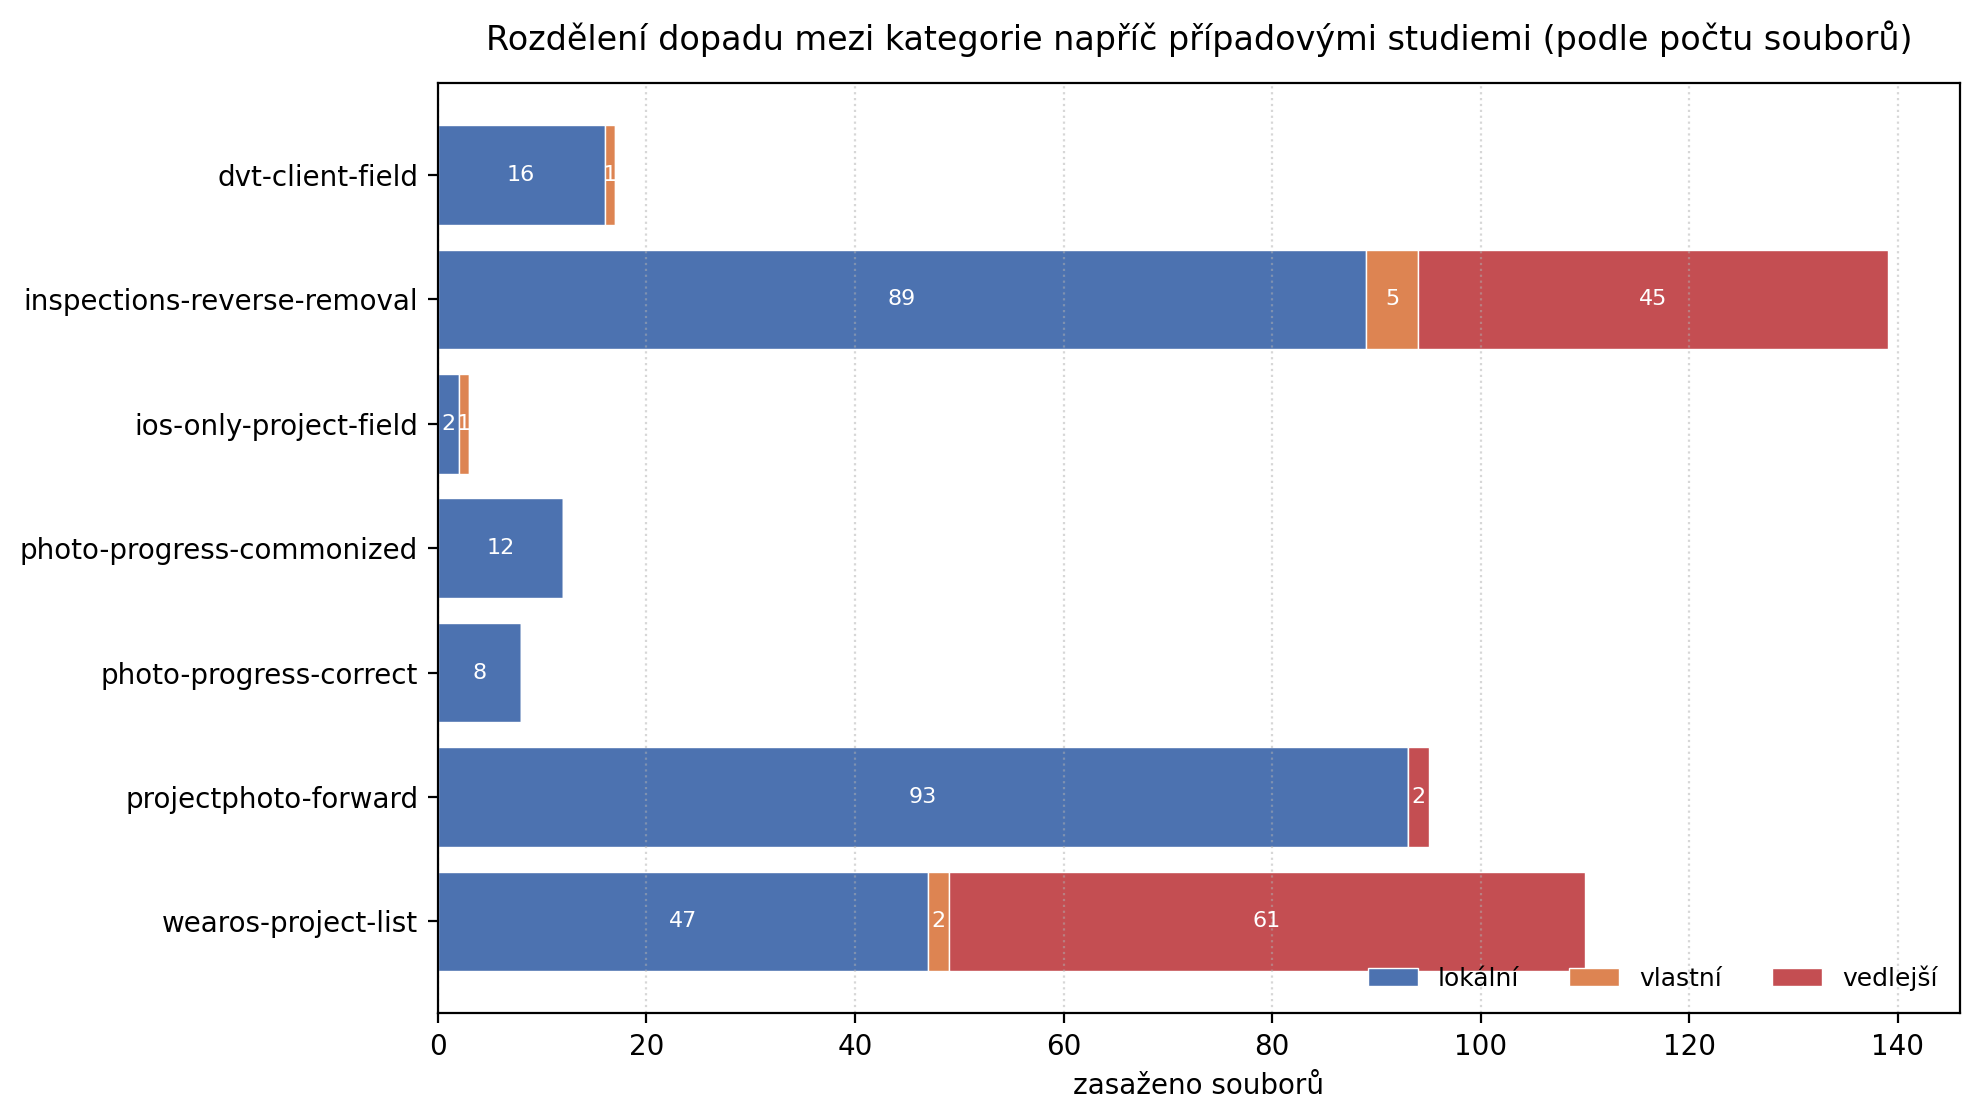
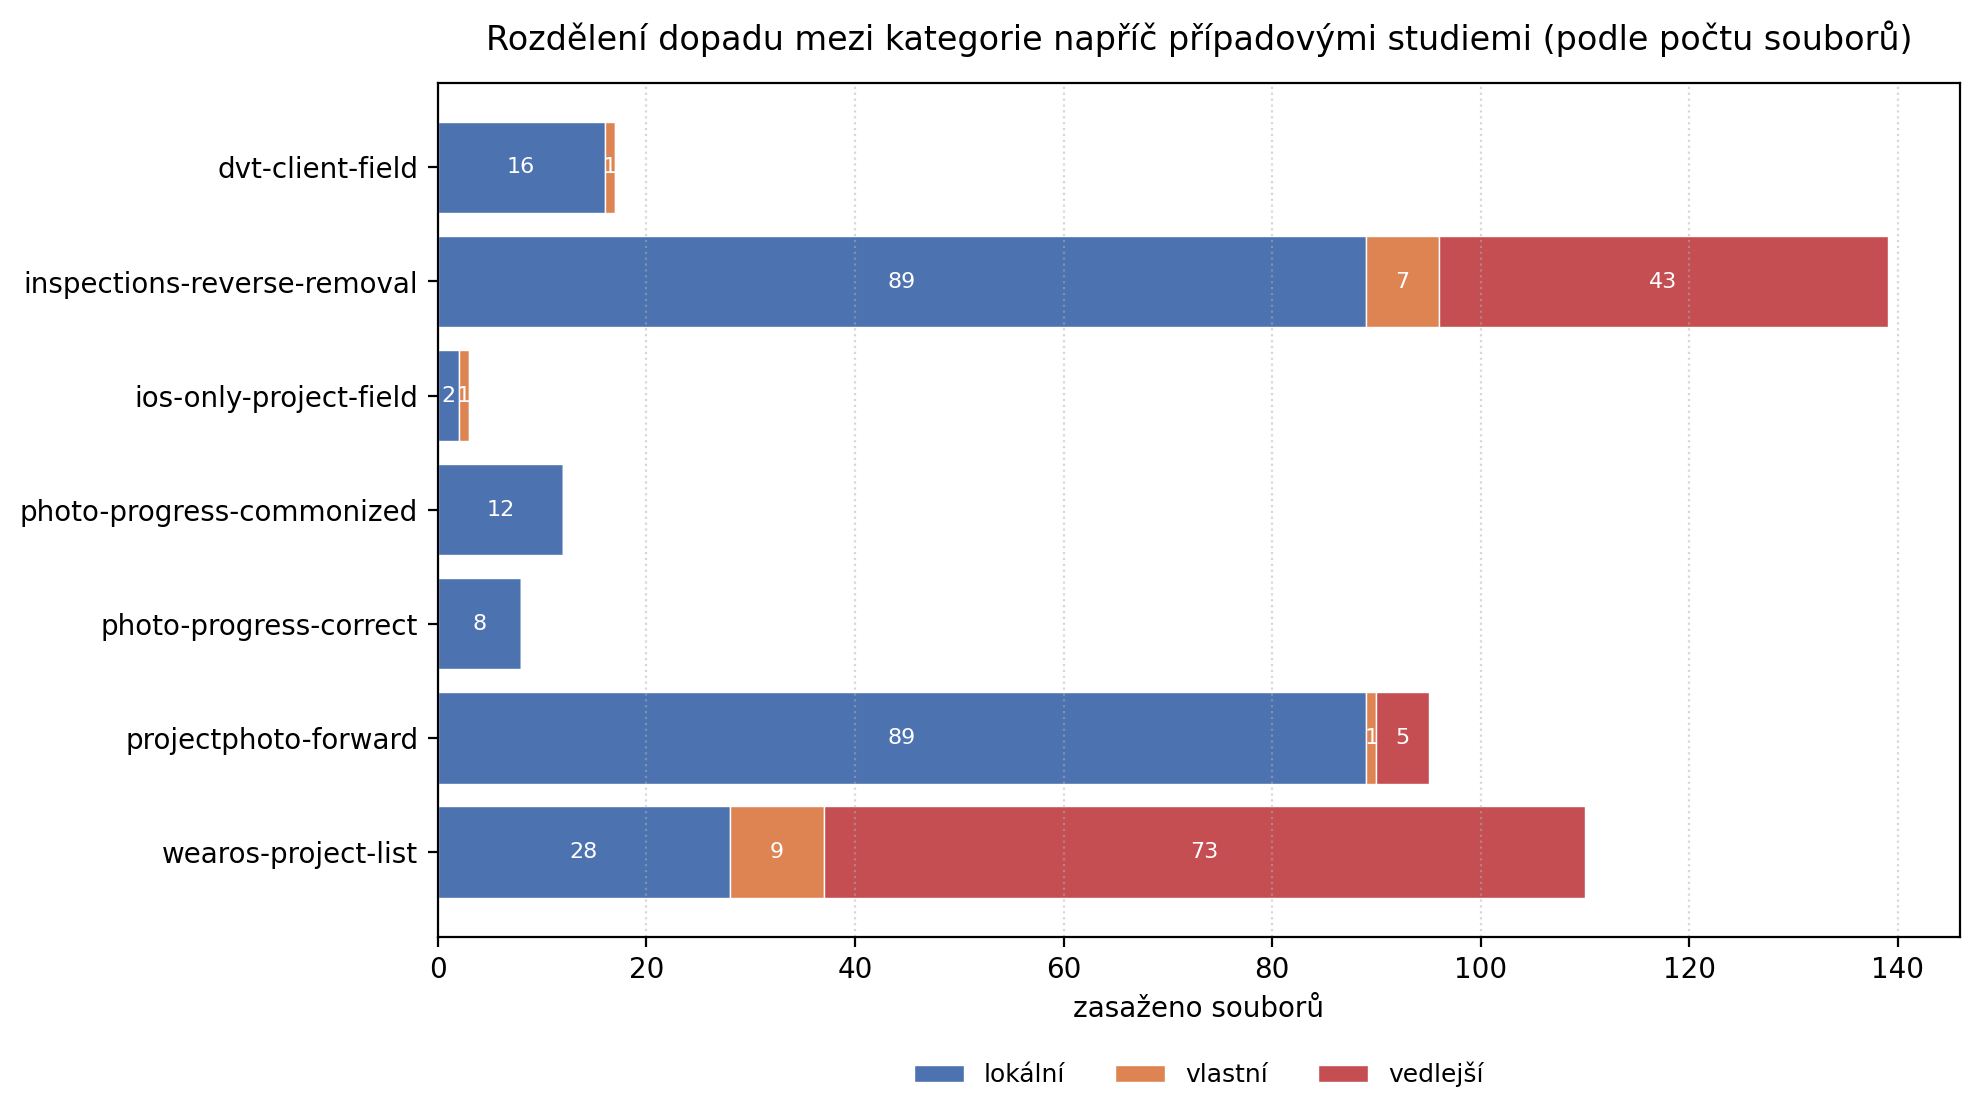
analysis: per-file aggregation for fig_4_3 (#260)
* analysis: switch fig_4_3 ripple buckets to per-file aggregation

The §4.3 stacked bars previously read `ripple_<change>_units.csv` and credited
each unit's full file_count / loc_churn_sum to its dominant_bucket. Mixed
units (a Gradle module touching multiple buckets) were rounded to a single
segment, which contradicted the per-file methodology declared in
§eval-metodologie and the per-file numbers cited in
`tab:eval-ev-{inspections,wearos}-buckets`, the fig_4_3 caption, and the
ProjectPhoto / Wear OS prose.

Switch the source to `ripple_<change>_files.csv` and aggregate each file's
own `bucket` and `loc_churn`. No prose or table edits required — every
text site already cited per-file values; only the figure was off.

Wear OS now renders 28/9/73 (was 47/2/61). Inspections 89/7/43 (was
89/5/45). ProjectPhoto 89/1/5 (was 93/0/2). LOC variants align with the
buckets tables.

* analysis: move fig_4_3 legend below axes

Inside-axes legend at lower right overlapped the wearos-project-list bar
once the per-file split surfaced the larger intrinsic+collateral mass
(28/9/73 across a 110-file total). Anchor the legend below the x-axis
label so segments are never obscured.

---------

Pull request: analysis: per-file aggregation for fig_4_3
## Problem Statement

`fig_4_3_ripple_buckets_files.pdf` (and its LOC variant `..._churn.pdf`) aggregated each Gradle unit's full `file_count` / `loc_churn_sum` to its `dominant_bucket`. Mixed units — a single module touching multiple buckets — collapsed to one segment, contradicting:

- `text/eval-metodologie.tex` ř. 56–64 — methodology declares **per-file** classification.
- `tab:eval-ev-inspections-buckets` (89/7/43, 5281/99/691) and `tab:eval-ev-wearos-buckets` (28/9/73, 1283/154/629) — per-file numbers.
- Caption fig_4_3: „Sedm opakujících se vlastních míst u Inspekcí, devět u Wear OS a jedno u ProjectPhoto" — per-file.
- ProjectPhoto prose: „95 souborů v rozložení 89 lokálních, 1 vlastního a 5 vedlejších" — per-file.

Wear OS rendered as 47/2/61 instead of 28/9/73 (the unit `:root::non-module` with `dominant_bucket=local` and 47 files actually contained 28 local + 12 collateral + 7 intrinsic per-file). Inspections rendered 89/5/45 instead of 89/7/43.

## Solution

`figure_ripple_buckets()` in `analysis/figures.py` now reads `ripple_<change>_files.csv` and aggregates each row's own `bucket` (+1 file) and `loc_churn` (LOC variant). One file = one segment contribution. Mixed units split correctly across local / intrinsic / collateral.

No prose or `.tex` edits — every text site already cited per-file values. Only the figure was off.

## Test Coverage

### Unit Tests
- `analysis/tests/` (81 tests) all pass.
[…]

diff --git a/analysis/figures.py b/analysis/figures.py
@@ -716,33 +716,34 @@ def figure_ripple_buckets() -> None:
     each can be embedded at full width in the thesis without compressing the
     bar labels.
 
-    Consumes every `analysis/data/ripple_<change>_units.csv` produced by
-    feature_retro.py --finalize. Recurring intrinsic unit count annotated per bar.
+    Consumes every `analysis/data/ripple_<change>_files.csv` produced by
+    feature_retro.py --finalize. Aggregates per-file `bucket` so mixed units
+    (a single Gradle module touching multiple buckets) split correctly across
+    segments — matches the per-file methodology in §metodologie and the
+    per-file numbers cited in §evaluation tables and prose.
 
     Skips gracefully when no ripple CSVs exist yet — Phase 2 writeup runs before
     any case study data is committed, so the smoke pass must not fail here.
     """
-    ripple_csvs = sorted(DATA_DIR.glob("ripple_*_units.csv"))
+    ripple_csvs = sorted(DATA_DIR.glob("ripple_*_files.csv"))
     if not ripple_csvs:
-        print("figure_ripple_buckets: no ripple_*_units.csv found — skipping")
+        print("figure_ripple_buckets: no ripple_*_files.csv found — skipping")
         return
 
     per_change_rows = []
     for csv_path in ripple_csvs:
-        change_id = csv_path.stem.removeprefix("ripple_").removesuffix("_units")
+        change_id = csv_path.stem.removeprefix("ripple_").removesuffix("_files")
         df = pd.read_csv(csv_path, dtype=str).fillna("")
-        df["file_count"] = df["file_count"].astype(int)
-        df["loc_churn_sum"] = df["loc_churn_sum"].astype(int)
-        df["recurring_bool"] = df["recurring"].str.lower().isin({"true", "1"})
+        df["loc_churn"] = df["loc_churn"].astype(int)
 
         bucket_files = {b: 0 for b in RIPPLE_BUCKET_ORDER}
         bucket_churn = {b: 0 for b in RIPPLE_BUCKET_ORDER}
         for _, row in df.iterrows():
-            b = row["dominant_bucket"]
+            b = row["bucket"]
             if b not in bucket_files:
                 continue
-            bucket_files[b] += int(row["file_count"])
-            bucket_churn[b] += int(row["loc_churn_sum"])
+            bucket_files[b] += 1
+            bucket_churn[b] += int(row["loc_churn"])
 
         per_change_rows.append(
             {
@@ -791,7 +792,8 @@ def figure_ripple_buckets() -> None:
         ax.grid(axis="x", linestyle=":", alpha=0.5)
 
         ax.legend(
-            loc="lower right",
+            loc="upper center",
+            bbox_to_anchor=(0.5, -0.12),
             ncol=len(RIPPLE_BUCKET_ORDER),
             frameon=False,
             fontsize=9,